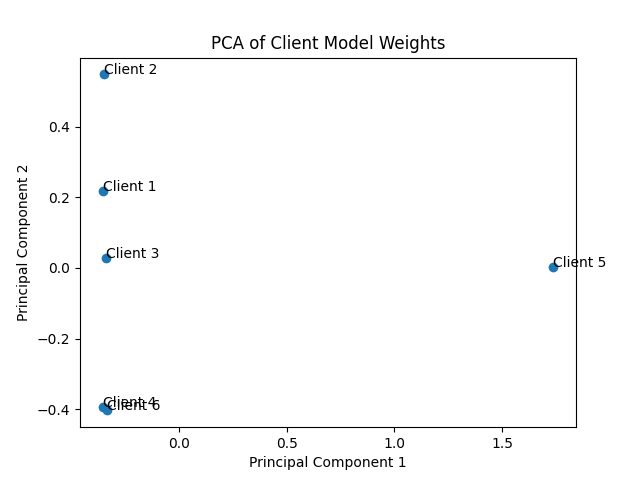
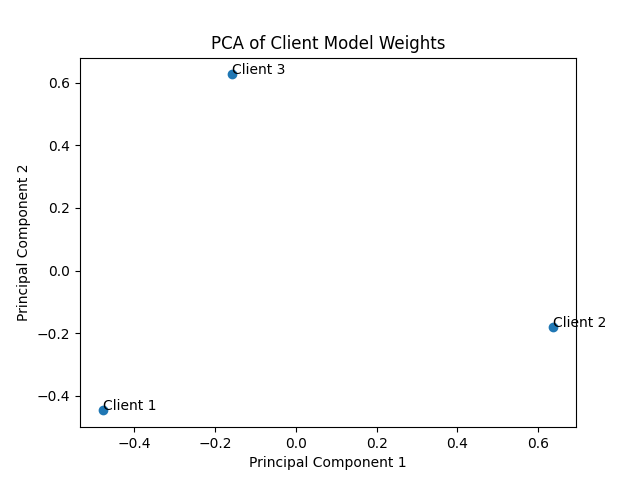
refactor: Add PCA for weight analysis in server

diff --git a/fl_client_2.py b/fl_client_2.py
@@ -494,9 +494,16 @@ class FlowerClient(fl.client.NumPyClient):
     from sklearn.decomposition import PCA
     import numpy as np
     import time as tmp
+   
+
+
+
+    
 
     def compare_weights(self, global_params, local_params,round_no):
         # Flatten weights for PCA
+        self.pca_NEW(global_params)
+        self.pca_NEW(local_params)
         flattened_global = np.concatenate([p.flatten() for p in global_params])
         flattened_local = np.concatenate([p.flatten() for p in local_params])
 
@@ -527,6 +534,29 @@ class FlowerClient(fl.client.NumPyClient):
         else:
             plt.savefig(f"Figures/pca_weights_{args.client_id}_{round_no}.png")
         plt.close()
+
+    
+    def pca_NEW(parameters):
+    # Assuming 'net' is your trained model instance
+        # Step 1: Extract the model weights
+        weights = []
+        for param in parameters:
+            weights.append(param.data.cpu().numpy())  # Convert to numpy array and append
+
+        # Step 2: Flatten the weights into a single vector
+        flattened_weights = np.concatenate([w.flatten() for w in weights])
+
+        # Reshape into a 2D array (samples × features)
+        # For this example, treat it as a single "sample" with many "features"
+        # You might want to reshape depending on your case
+        flattened_weights = flattened_weights.reshape(1, -1)
+
+        # Step 3: Apply PCA
+        pca = PCA(n_components=10)  # Reducing to 10 components
+        pca_result = pca.fit_transform(flattened_weights)
+
+        print("--------------->Explained Variance Ratio:", pca.explained_variance_ratio_)
+        print("--------------->PCA result shape:", pca_result.shape)  # Should be (1, 10)
 
 
     def evaluate(self, parameters, config):

diff --git a/fl_server_2.py b/fl_server_2.py
@@ -12,7 +12,7 @@ import matplotlib.pyplot as plt
 
 # Argument parser for number of rounds
 parser = argparse.ArgumentParser(description="Federated Learning with Flower and PyTorch")
-parser.add_argument("--number_of_round", type=int, default=8, help="Number of rounds")
+parser.add_argument("--number_of_round", type=int, default=4, help="Number of rounds")
 args = parser.parse_args()
 
 # Define metric aggregation function
